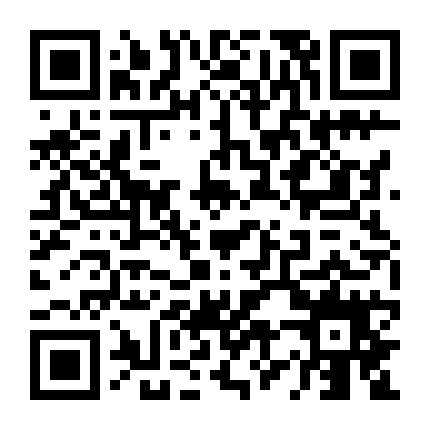
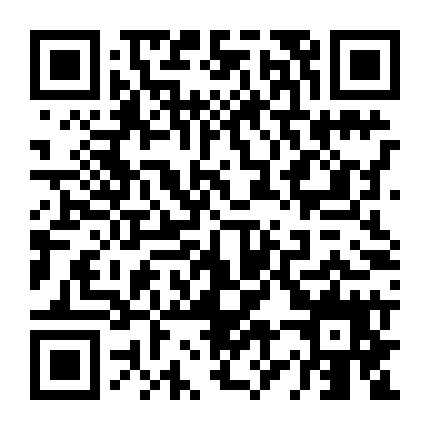
二维码添加logo图片

diff --git a/aspnet-core/src/HC.WeChat.Application/Shops/ShopAppServices.cs b/aspnet-core/src/HC.WeChat.Application/Shops/ShopAppServices.cs
@@ -12,7 +12,6 @@ using Microsoft.EntityFrameworkCore;
 using HC.WeChat.Shops.Dtos;
 using HC.WeChat.Shops.DomainServices;
 using System;
-using HC.WeChat.Authorization;
 using HC.WeChat.Retailers;
 using HC.WeChat.WeChatUsers.DomainServices;
 using HC.WeChat.WechatEnums;
@@ -32,11 +31,19 @@ using NPOI.XSSF.UserModel;
 using Abp.Domain.Uow;
 using HC.WeChat.Dto;
 using Senparc.Weixin.MP;
-using Senparc.Weixin.MP.AdvancedAPIs.QrCode;
 using System.Net;
-using System.Text.RegularExpressions;
 using ICSharpCode.SharpZipLib.Zip;
 using ICSharpCode.SharpZipLib.Checksum;
+using System.DrawingCore.Text;
+using SixLabors.ImageSharp;
+using SixLabors.ImageSharp.PixelFormats;
+using SixLabors.ImageSharp.Processing;
+using SixLabors.ImageSharp.Processing.Transforms;
+using SixLabors.ImageSharp.Processing.Filters;
+using SixLabors.ImageSharp.Processing.Text;
+using SixLabors.ImageSharp.Processing.Drawing;
+using SixLabors.Primitives;
+using HC.WeChat.Authorization;
 
 namespace HC.WeChat.Shops
 {
@@ -809,7 +816,7 @@ namespace HC.WeChat.Shops
                             //RetailerName = r != null ? r.Name : "",
                             RetailerName = r.Name,
                             RetailerCode = r.Code,
-                            FansNum=s.FansNum
+                            FansNum = s.FansNum
                         };
 
             //TODO:根据传入的参数添加过滤条件
@@ -911,7 +918,7 @@ namespace HC.WeChat.Shops
                 ISheet sheet = workbook.CreateSheet("Employees");
                 var rowIndex = 0;
                 IRow titleRow = sheet.CreateRow(rowIndex);
-                string[] titles = { "店铺名称", "店铺地址", "店铺描述", "零售客户", "客户编码", "店铺销量", "店铺浏览量", "店铺用户量","粉丝数", "店铺电话", "审核状态", "审核时间", "店铺评价", "经度", "纬度" };
+                string[] titles = { "店铺名称", "店铺地址", "店铺描述", "零售客户", "客户编码", "店铺销量", "店铺浏览量", "店铺用户量", "粉丝数", "店铺电话", "审核状态", "审核时间", "店铺评价", "经度", "纬度" };
                 var fontTitle = workbook.CreateFont();
                 fontTitle.IsBold = true;
                 for (int i = 0; i < titles.Length; i++)
@@ -995,7 +1002,7 @@ namespace HC.WeChat.Shops
                 {
                     //生成二维码 
                     var retailer = await _retailerRepository.GetAll().Where(r => r.Id == item.RetailerId).SingleOrDefaultAsync();
-                    var result =await QrCodeApi.CreateAsync(AppConfig.AppId, 0, 0, QrCode_ActionName.QR_LIMIT_STR_SCENE, (int)SceneType.店铺 + "_" + item.Id.ToString());
+                    var result = await QrCodeApi.CreateAsync(AppConfig.AppId, 0, 0, QrCode_ActionName.QR_LIMIT_STR_SCENE, (int)SceneType.店铺 + "_" + item.Id.ToString());
 
                     //下载二维码到本地
                     var imgurl = QrCodeApi.GetShowQrCodeUrl(result.ticket);
@@ -1063,7 +1070,9 @@ namespace HC.WeChat.Shops
             var filePath = fileDire + imgName + ".jpg";
             web.DownloadFile(url, filePath);
             location = filePath.Substring(webRootPath.Length);
-            return location;
+            imgName = filePath.Substring(fileDire.Length);
+            var imgPath = QrcodeImgLogo(filePath, imgName);
+            return imgPath;
         }
         #endregion
 
@@ -1105,7 +1114,7 @@ namespace HC.WeChat.Shops
             var downFileDireZip = webRootPath + downEndRoteZip;
             if (Directory.Exists(fileDire))
             {
-                Directory.Delete(fileDire,true);// 先删除之前的目录
+                Directory.Delete(fileDire, true);// 先删除之前的目录
             }
             if (remoteUrl.Contains(','))
             {
@@ -1130,13 +1139,13 @@ namespace HC.WeChat.Shops
             else
             {
                 WebClient web = new WebClient();
-                string html = web.DownloadString(webRootPath+remoteUrl);
+                string html = web.DownloadString(webRootPath + remoteUrl);
                 if (!Directory.Exists(fileDire))
                 {
                     Directory.CreateDirectory(fileDire);
                 }
                 var filePath = fileDire + imgName + ".jpg";
-                web.DownloadFile(webRootPath+remoteUrl, filePath);
+                web.DownloadFile(webRootPath + remoteUrl, filePath);
                 ZipFileDirectory(fileDireZip, "店铺推广码.zip", downFileDireZip);
                 return "/files/downloadtemp/店铺推广码.zip";
             }
@@ -1208,6 +1217,36 @@ namespace HC.WeChat.Shops
                         s.Write(buffer, 0, buffer.Length);
                     }
                 }
+            }
+        }
+
+
+        /// <summary>
+        /// 二维码添加logo
+        /// </summary>
+        /// <param name="filePath">二维码路径</param>
+        /// <param name="imgName">图片名称</param>
+        /// <returns></returns>
+        public string QrcodeImgLogo(string filePath, string imgName)
+        {
+            string webRootPath = _hostingEnvironment.WebRootPath;
+            using (FileStream stream = File.OpenRead(filePath))
+            using (Image<Rgba32> logo = Image.Load(webRootPath + "/upload/shopqr/logo.jpg"))
+            using (Image<Rgba32> image = Image.Load(stream))
+            {
+                logo.Mutate(x => x
+                     .Resize(90, 90));
+                image.Mutate(x => x.DrawImage(logo, PixelBlenderMode.Src, 1, new Point(image.Width / 2 - 45, image.Height / 2 - 45)));
+                var endRote = string.Format("/upload/{0}/", "qrlogo");
+                var fileDire = webRootPath + endRote;
+                if (!Directory.Exists(fileDire))
+                {
+                    Directory.CreateDirectory(fileDire);
+                }
+                var path = fileDire + imgName;
+                image.Save(path);
+                var imgPath = path.Substring(webRootPath.Length);
+                return imgPath;
             }
         }
     }

diff --git a/aspnet-core/src/HC.WeChat.Application/Shops/IShopAppServices.cs b/aspnet-core/src/HC.WeChat.Application/Shops/IShopAppServices.cs
@@ -7,6 +7,7 @@ using HC.WeChat.Shops;
 using System;
 using Senparc.Weixin.MP.AdvancedAPIs.QrCode;
 using HC.WeChat.Dto;
+using System.IO;
 
 namespace HC.WeChat.Shops
 {
@@ -114,5 +115,13 @@ namespace HC.WeChat.Shops
         /// <returns></returns>
         Task BatchCreateQRCodeAsync();
         APIResultDto PromotionCodeZip(GetShopsInput input);
+
+        /// <summary>
+        /// 二维码添加logo
+        /// </summary>
+        /// <param name="filePath">二维码路径</param>
+        /// <param name="imgName">图片名称</param>
+        /// <returns></returns>
+        string QrcodeImgLogo(string filePath, string imgName);
     }
 }
